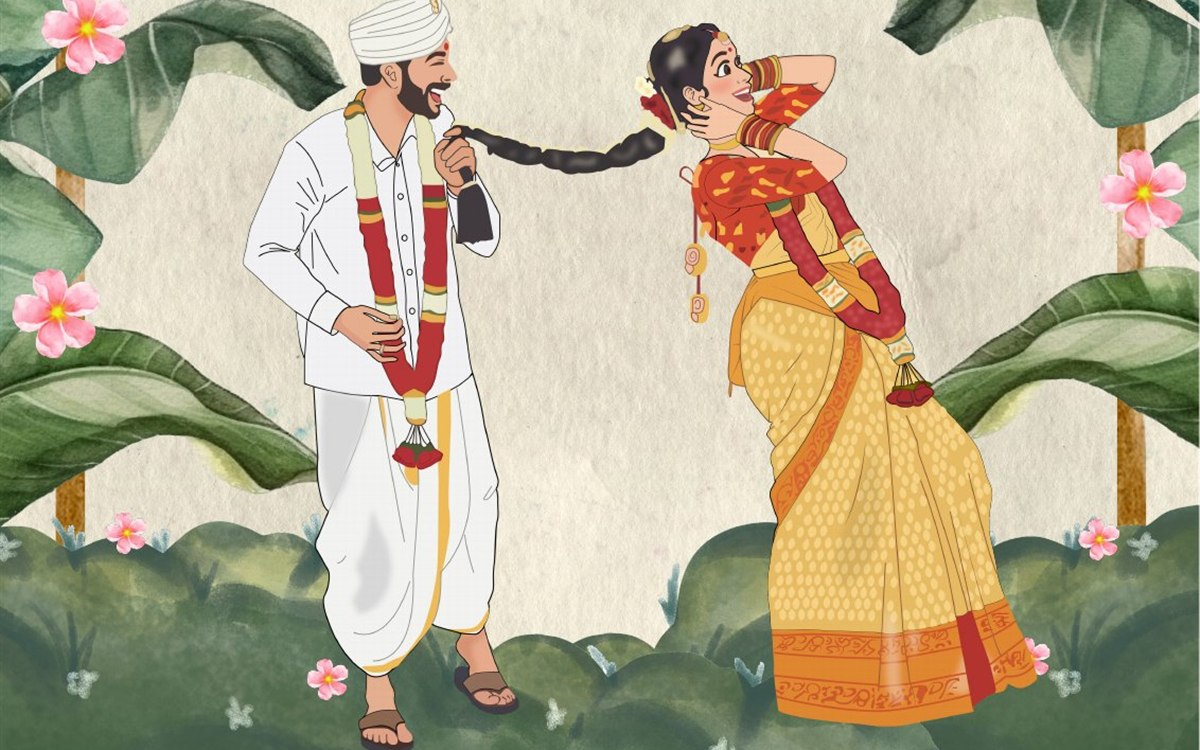
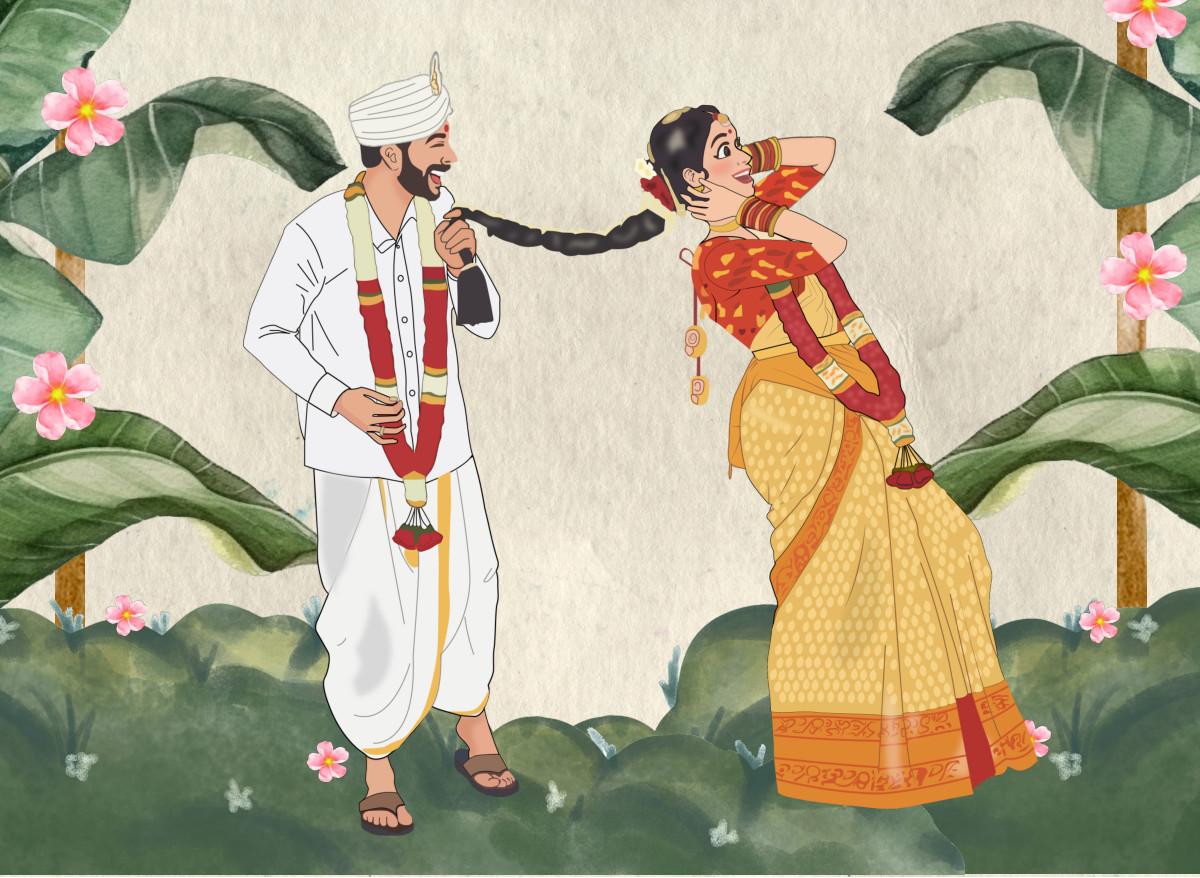
Sync Emergent invitation updates and restore full Journey illustrations
Use the exported Emergent application baseline and fix cropped Haldi and wedding artwork while preserving existing music playback.

diff --git a/frontend/src/components/invitation/InvitationCard.js b/frontend/src/components/invitation/InvitationCard.js
@@ -10,18 +10,18 @@ export default function InvitationCard() {
         src={images.invitationBackground}
         alt=""
         aria-hidden="true"
-        className="pointer-events-none absolute inset-0 h-full w-full select-none object-cover object-bottom"
+        className="pointer-events-none absolute inset-0 h-full w-full select-none object-cover object-bottom opacity-[0.85]"
       />
       <div className="relative mx-auto max-w-3xl">
         <Reveal>
           <SectionHead eyebrow="THE INVITATION" title="With Joy in Our Hearts" />
         </Reveal>
         <Reveal delay={0.1}>
-          <div className="gold-frame gold-speckle relative bg-[#FDFBF7]/92 px-6 py-12 text-center backdrop-blur-[1px] sm:px-14 sm:py-16">
+          <div className="gold-frame gold-speckle relative bg-[#FAF6F0]/25 px-6 py-12 text-center backdrop-blur-[1px] sm:px-14 sm:py-16">
             <span className="pointer-events-none absolute left-3 top-3 text-lg text-[#B8860B]/60" aria-hidden="true">&#x0950;</span>
             <span className="pointer-events-none absolute bottom-3 right-3 text-lg text-[#B8860B]/60" aria-hidden="true">&#x0950;</span>
 
-            <p className="font-display text-xl leading-relaxed text-[#404040] sm:text-2xl sm:leading-relaxed">
+            <p className="font-display text-xl font-medium leading-relaxed text-[#404040] sm:text-2xl sm:leading-relaxed">
               {couple.hosts} request your presence on the auspicious occasion of the
               marriage of their Son
             </p>
@@ -44,7 +44,7 @@ export default function InvitationCard() {
               <span className="text-xs tracking-[0.3em] text-[#B8860B]">&#x2766;</span>
               <span className="h-px flex-1 bg-[#D4AF37]/50" />
             </div>
-            <p className="font-label mt-6 text-[10px] text-[#B8860B] sm:text-xs">
+            <p className="font-label mt-6 text-[10px] text-[#1A1A1A] sm:text-xs">
               YOU ARE CORDIALLY INVITED
             </p>
           </div>

diff --git a/frontend/src/config/invitation.js b/frontend/src/config/invitation.js
@@ -48,7 +48,7 @@ export const INVITATION = {
       num: "01",
       day: "SATURDAY",
       date: "OCTOBER 24, 2026",
-      time: "12:00 NOON",
+      time: "12:30 PM",
       title: "MEHANDI & HALDI",
       venue: ["Hotel Trident (The Oberoi Group)", "Fatehabad Road, Agra"],
       image: "/images/journey-event-1.jpg",
@@ -97,7 +97,7 @@ export const INVITATION = {
     {
       num: "04",
       title: "THE LITTLE MOMENTS",
-      text: "In the age of WhatsApp, they shared handwritten letters for years, with every word creating the story of a lifetime.",
+      text: "In the age of WhatsApp, we shared handwritten letters for years, with every word creating the story of a lifetime.",
       image: "/images/story-2.png",
     },
     {
@@ -127,7 +127,7 @@ export const INVITATION = {
       theme: "BOOGIE WOOGIE",
       dressCode: "CHATAK CHAMKEELA",
       image: "/images/wardrobe-sangeet.jpg",
-      palette: ["#E0115F", "#FF7A00", "#00A0B0", "#FFD700"],
+      palette: ["#262626", "#FAF6F0", "#5C1A1B", "#8A8A8A"],
     },
     {
       id: "wedding",
@@ -137,7 +137,7 @@ export const INVITATION = {
       theme: "LAGAN LAAGI RE",
       dressCode: "SASSY & CLASSY",
       image: "/images/wardrobe-wedding.jpg",
-      palette: ["#5C1A1B", "#1B3B2B", "#D4AF37", "#262626"],
+      palette: ["#C53030", "#E8943A", "#D4AF37", "#4A7A5C", "#2E6E8E"],
     },
   ],
 };

diff --git a/frontend/src/components/invitation/Journey.js b/frontend/src/components/invitation/Journey.js
@@ -36,7 +36,7 @@ export default function Journey() {
                       src={ev.image}
                       alt={ev.title}
                       loading="lazy"
-                      className="aspect-[16/10] w-full object-cover"
+                      className="h-auto w-full bg-[#FAF6F0]"
                     />
                   </div>
                   <p className="font-label mt-6 text-[10px] text-[#D4AF37]">EVENT {ev.num}</p>

diff --git a/frontend/craco.config.js b/frontend/craco.config.js
@@ -70,13 +70,6 @@ if (config.enableHealthCheck) {
 }
 
 let webpackConfig = {
-  jest: {
-    configure: {
-      moduleNameMapper: {
-        "^@/(.*)$": "<rootDir>/src/$1",
-      },
-    },
-  },
   eslint: {
     configure: {
       extends: ["plugin:react-hooks/recommended"],
